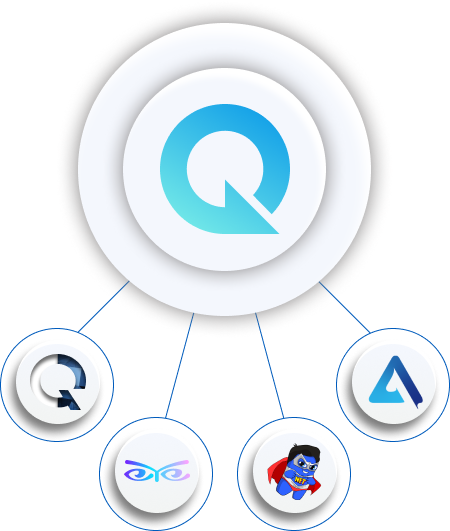
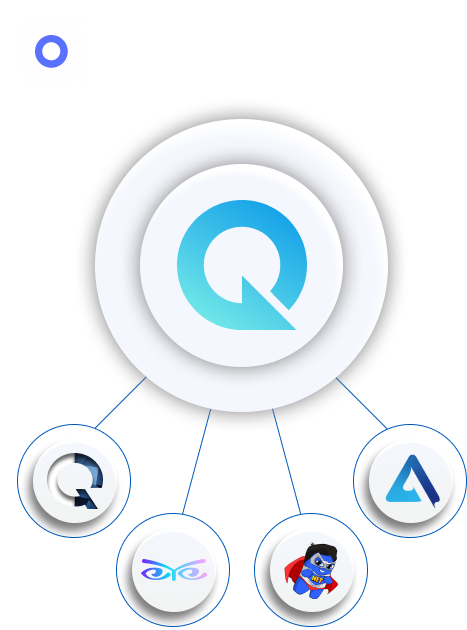
last fixes

diff --git a/src/styles/pages/_home.scss b/src/styles/pages/_home.scss
@@ -10,7 +10,7 @@
     display: flex;
     flex-direction: row;
     min-height: 100vh;
-
+    z-index: 3;
     @media(max-width: 600px) {
       height: auto;
     }
@@ -18,6 +18,8 @@
     .render-responsive-blocks {
       background: url("../../assets/images/bg main.png") #F4F7FD no-repeat;
       background-size: cover;
+      box-shadow: 0px 1px 31px rgba(0, 0, 0, 0.58);
+      z-index: 2;
       @media(max-width: 600px) {
         background: url("../../assets/images/bg main mobile.png") #F4F7FD no-repeat;
         background-size: cover;
@@ -26,7 +28,7 @@
 
       .right {
         background-size: contain !important;
-        background: url("../../assets/images/Subtract.png") no-repeat;
+        background: url("../../assets/images/Subtract.png");
         background-repeat-y: initial;
         @media(max-width: 600px) {
           background-repeat-y: none !important;
@@ -51,14 +53,13 @@
       }
 
       .info-section {
-        margin-top: 119px;
+        padding-top: 56px;
         width: 100%;
-        height: 696px;
+        height: 833px;
         display: flex;
         justify-content: space-between;
         flex-direction: column;
         @media(max-width: 600px) {
-          margin-top: 77px;
           display: flex;
           height: 696px;
           align-items: center;
@@ -147,6 +148,7 @@
     }
 
     &__right-part {
+
       width: 100%;
       height: 100%;
       display: flex;
@@ -157,18 +159,18 @@
 
       .top-eclipse {
         position: absolute;
-        left: -195px;
+        left: -643px;
         top: 121px;
         @media (max-width: 800px) {
-          transform: scale(0.8);
-          width: 100%;
-          left: 0;
-          right: 0;
-          bottom: 0;
-          top: -45px;
-          display: flex;
           align-items: center;
+          bottom: 0;
+          display: flex;
           justify-content: center;
+          left: -7px;
+          right: 0;
+          top: -67px;
+          transform: scale(0.81);
+          width: 100%;
           img {
             margin: 0 auto;
           }
@@ -359,7 +361,7 @@
         z-index: 2;
         position: absolute;
         left: -183px;
-        top: 562px;
+        top: 576px;
         bottom: 0;
         transform: scale(3.5);
         @media (max-width: 800px) {
@@ -391,7 +393,7 @@
     background: url("../../assets/images/dots-background.png") #F4F7FD no-repeat;
     display: flex;
     padding: 120px 0;
-    background-position-y: 200px;
+    background-position-y: bottom;
     min-height: 100vh;
 
     @media (max-width: 800px) {
@@ -485,9 +487,9 @@
               position: absolute;
               bottom: 0;
               left: 0;
-              width: 99.5%;
-              height: 0;
-              border: 1px solid rgba(0, 34, 167, 0.26);
+              width: 100%;
+              height: 1px;
+              background-color: rgba(0, 34, 167, 0.26);
             }
           }
 
@@ -540,15 +542,18 @@
                 width: 0;
                 height: 100%;
                 background: #0022A7;
+                border: 0 !important;
                 transition: all .35s;
               }
 
               &:hover {
                 color: #fff;
+                border: 0 !important;
               }
 
               &:hover::after {
                 width: 100%;
+                border: 0 !important;
               }
 
               p {
@@ -849,7 +854,7 @@
                 justify-content: center;
                 cursor: pointer;
                 background: #F4F7FD;
-                transition: all .35s;
+                transition: all .25s;
                 position: relative;
                 color: #005BBC;
 
@@ -862,11 +867,13 @@
                   width: 0;
                   height: 100%;
                   background: #0022A7;
-                  transition: all .35s;
+                  transition: all .25s;
                 }
 
                 &:hover {
                   color: #fff;
+                  border: 0px !important;
+                  transition: all .5s !important;
                 }
 
                 &:hover::after {
@@ -998,6 +1005,7 @@
 
     &__title {
       display: flex;
+      text-shadow: 1px 4px 4px #00000040;
       align-items: center;
       justify-content: center;
       width: 100%;
@@ -1222,6 +1230,7 @@
   }
 
   .team-section {
+    padding: 15px 0 15px 0;
     display: flex;
     align-items: center;
     justify-content: center;
@@ -1290,7 +1299,7 @@
           align-items: center;
           justify-content: flex-start;
           flex-direction: column;
-          height: 362px;
+          height: 392px;
           text-align: center;
           width: 210px;
           gap: 10px;
@@ -1365,6 +1374,7 @@
   }
 
   .partners-section {
+    padding: 20px 0 20px 0;
     padding-bottom: 140px;
     background: #F4F7FD;
     min-height: 100vh;
@@ -1563,19 +1573,24 @@
           }
         }
 
-        .button {
-          background: #F4F7FD;
+        .button--border {
           border-radius: 6px;
-          font-family: Rubik, sans-serif;
-          font-style: normal;
-          font-weight: 500;
-          font-size: 24px;
-          line-height: 28px;
-          color: #0022A7;
-          height: 58px;
-          padding: 0 50px;
-
+          padding: 2px;
+          border: 1px dashed #3A6BFF;
+          .button {
+            background: #F4F7FD;
+            border-radius: 6px;
+            font-family: Rubik, sans-serif;
+            font-style: normal;
+            font-weight: 500;
+            font-size: 24px;
+            line-height: 28px;
+            color: #0022A7;
+            height: 58px;
+            padding: 0 50px;
+          }
         }
+
       }
     }
   }

diff --git a/src/pages/Home/components/LastSection/LastSection.js b/src/pages/Home/components/LastSection/LastSection.js
@@ -8,7 +8,9 @@ const LastSection = () => (
         <div className="container">
             <form className='submit-form' action="">
                 <input placeholder='example@gmail.com' className='input' type="text"/>
-                <button className='button' type="submit">Submit</button>
+               <div className='button--border'>
+                   <button className='button' type="submit">Submit</button>
+               </div>
             </form>
         </div>
     </div>

diff --git a/src/pages/Home/components/StartModal/StartModal.js b/src/pages/Home/components/StartModal/StartModal.js
@@ -1,7 +1,8 @@
 import React from 'react';
 import Modal from "components/Modal";
 import {ReactSVG} from "react-svg";
-import logo from "assets/svg/home/startModal/logo.svg";
+import logo from 'assets/svg/header-logo.svg';
+
 import modBut1 from "assets/svg/home/startModal/modal-button-1.svg";
 import modBut2 from "assets/svg/home/startModal/modal-button-2.svg";
 import xIcon from "assets/svg/x.svg";

diff --git a/src/components/layouts/Header/Header.js b/src/components/layouts/Header/Header.js
@@ -4,7 +4,7 @@ import {observer} from 'mobx-react-lite';
 import headerLogoSvg from '../../../assets/svg/header-logo.svg';
 import {DEFI_PROJECTS, MAIN_PAGE} from "config";
 import {Link, useLocation} from "react-router-dom";
-import {useMedia, useMobileDetect} from "hooks";
+import {useMedia} from "hooks";
 
 const headerConfig = [
     {
